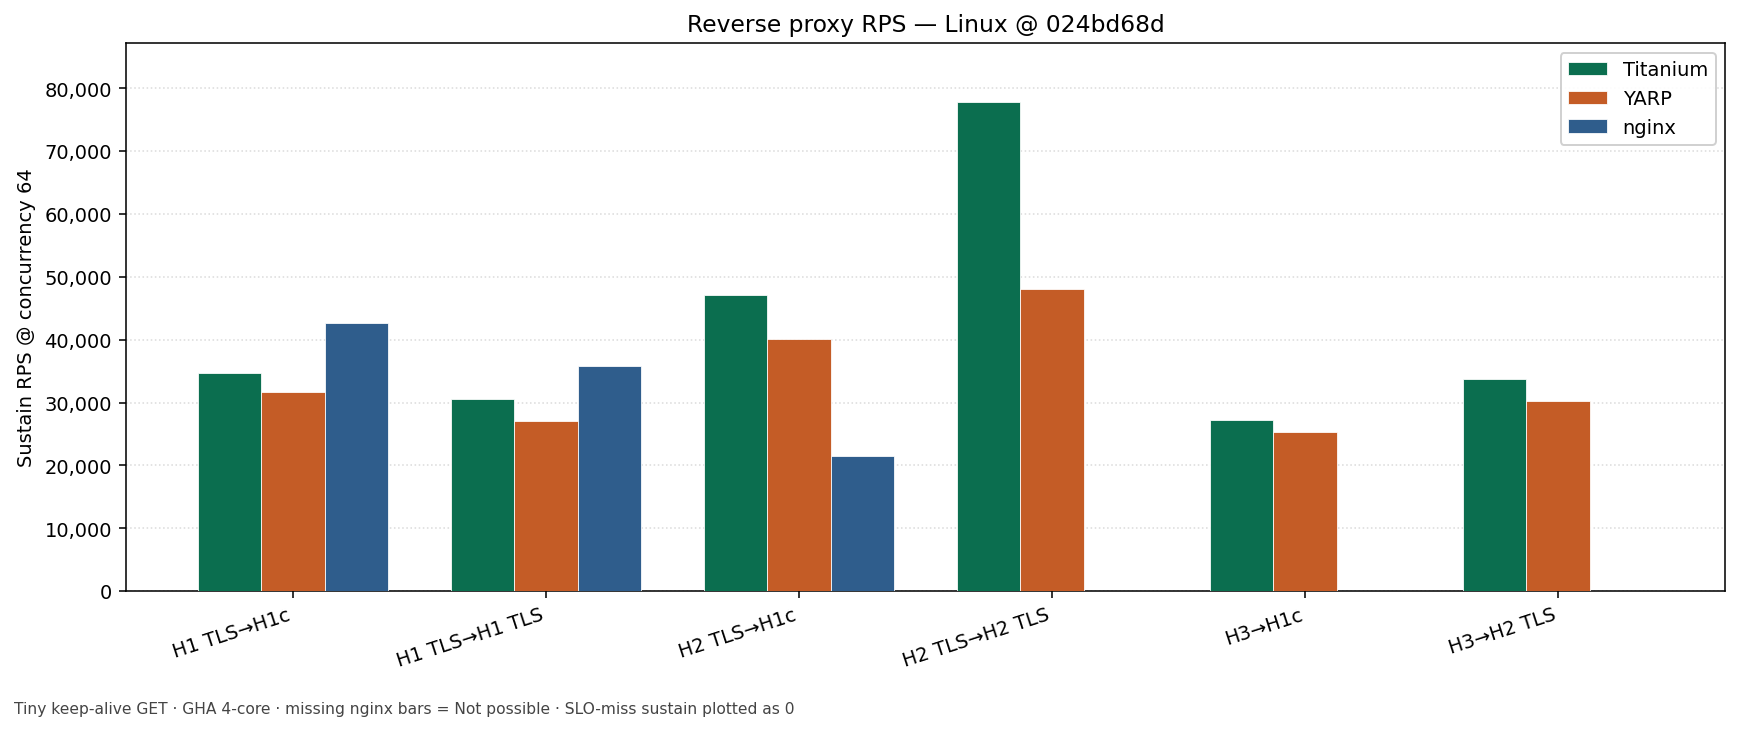
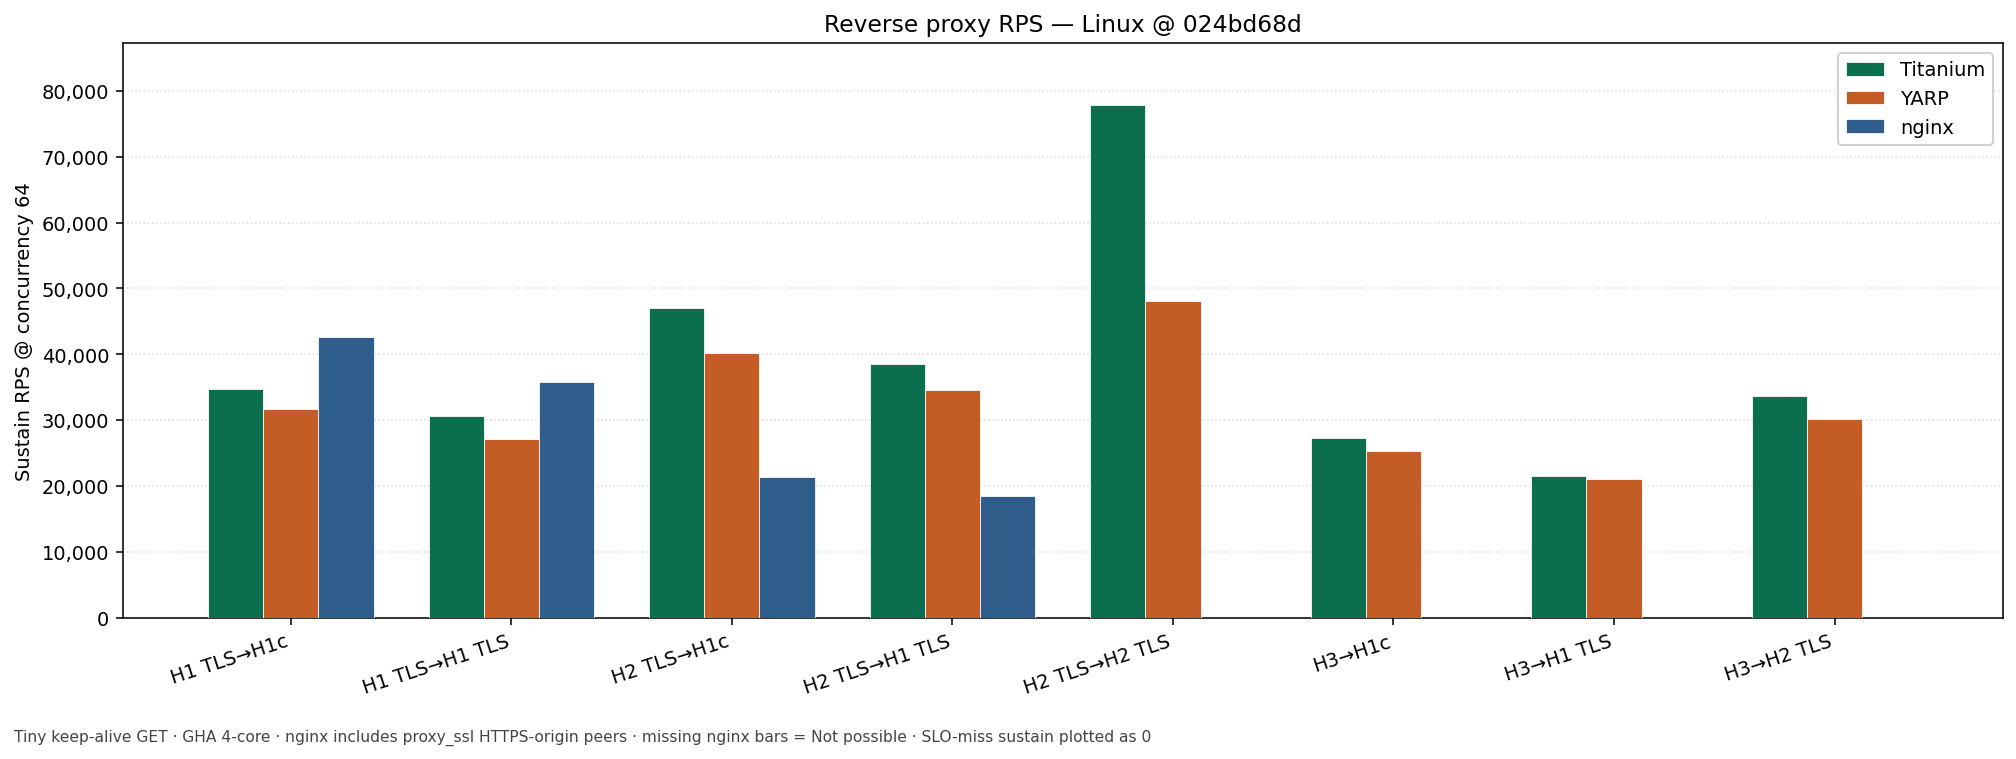
Include nginx proxy_ssl HTTPS-origin peers in practical RPS charts.
Add H2/H3→H1 TLS groups so newly measurable nginx bars appear alongside TWP/YARP.

diff --git a/tools/RpsLoadProbe/render-practical-charts.py b/tools/RpsLoadProbe/render-practical-charts.py
@@ -19,6 +19,8 @@ from pathlib import Path
 from typing import Dict, Iterable, List, Optional, Sequence, Tuple
 
 # Practical industry reverse wires (short labels → CSV arm names).
+# nginx HTTPS-origin peers use proxy_ssl (http1-tls-to-https, http2/http3-to-https-http1).
+# H2→H2 / H3→H2 stay nginx=None — stock nginx has no H2/H3 upstream.
 PRACTICAL_ARMS: List[Tuple[str, str, str, Optional[str]]] = [
     # label, twp, yarp, nginx (None = not possible)
     ("H1 TLS→H1c", "twp-reverse-http1-tls", "yarp-reverse-http1-tls", "nginx-reverse-http1-tls"),
@@ -29,12 +31,24 @@ PRACTICAL_ARMS: List[Tuple[str, str, str, Optional[str]]] = [
         "nginx-reverse-http1-tls-to-https",
     ),
     ("H2 TLS→H1c", "twp-reverse-http2-cleartext", "yarp-reverse-http2", "nginx-reverse-http2"),
+    (
+        "H2 TLS→H1 TLS",
+        "twp-reverse-http2-to-https-http1",
+        "yarp-reverse-http2-to-https-http1",
+        "nginx-reverse-http2-to-https-http1",
+    ),
     ("H2 TLS→H2 TLS", "twp-reverse-http2", "yarp-reverse-http2-to-https", None),
     (
         "H3→H1c",
         "twp-reverse-http3-cleartext",
         "yarp-reverse-http3-cleartext",
         "nginx-reverse-http3-cleartext",
+    ),
+    (
+        "H3→H1 TLS",
+        "twp-reverse-http3-to-https-http1",
+        "yarp-reverse-http3-to-https-http1",
+        "nginx-reverse-http3-to-https-http1",
     ),
     ("H3→H2 TLS", "twp-reverse-http3-to-http2", "yarp-reverse-http3-to-http2", None),
 ]
@@ -136,7 +150,7 @@ def render_chart(
     products = ("Titanium", "YARP", "nginx")
     offsets = (-width, 0.0, width)
 
-    fig, ax = plt.subplots(figsize=(12.5, 5.2), dpi=140)
+    fig, ax = plt.subplots(figsize=(14.5, 5.4), dpi=140)
     ymax = 1.0
     for product, offset in zip(products, offsets):
         vals = series[product]
@@ -174,8 +188,8 @@ def render_chart(
     fig.text(
         0.01,
         0.01,
-        "Tiny keep-alive GET · GHA 4-core · missing nginx bars = Not possible · "
-        "SLO-miss sustain plotted as 0",
+        "Tiny keep-alive GET · GHA 4-core · nginx includes proxy_ssl HTTPS-origin peers · "
+        "missing nginx bars = Not possible · SLO-miss sustain plotted as 0",
         fontsize=8,
         color="#444444",
     )

diff --git a/website/docs/performance.md b/website/docs/performance.md
@@ -13,7 +13,7 @@ MITM is Titanium-only among those peers (they cannot MITM). Absolute requests pe
 
 ## Practical reverse RPS (CI)
 
-Sustain RPS @ concurrency 64 for common reverse wires (tiny keep-alive GET). Grouped bars: Titanium / YARP / nginx. Missing nginx bars mean that wire is *Not possible* for stock nginx. Charts from `compare-product` @ `024bd68d` ([34126809918](https://github.com/justcoding121/titanium-web-proxy/actions/runs/34126809918)); regenerate with [`render-practical-charts.py`](https://github.com/justcoding121/titanium-web-proxy/blob/develop/tools/RpsLoadProbe/render-practical-charts.py).
+Sustain RPS @ concurrency 64 for common reverse wires (tiny keep-alive GET). Grouped bars: Titanium / YARP / nginx. nginx now includes **HTTPS-origin** peers via `proxy_ssl` (H1/H2/H3 → H1 TLS) in addition to cleartext-origin terminate. Missing nginx bars mean that wire is still *Not possible* for stock nginx (no H2/H3 upstream). Charts from `compare-product` @ `024bd68d` ([34126809918](https://github.com/justcoding121/titanium-web-proxy/actions/runs/34126809918)); regenerate with [`render-practical-charts.py`](https://github.com/justcoding121/titanium-web-proxy/blob/develop/tools/RpsLoadProbe/render-practical-charts.py).
 
 ### Windows
 
